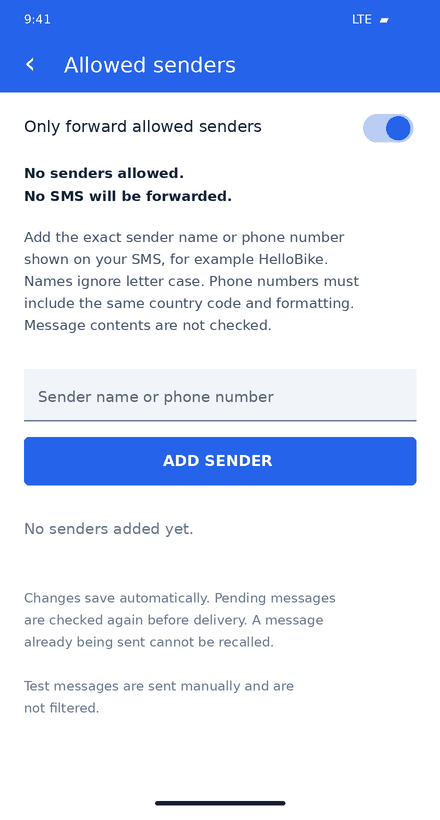
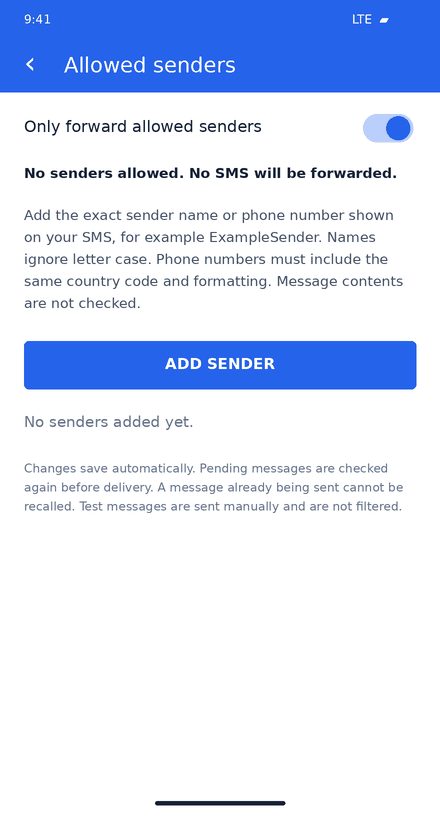
Update UI previews with generic senders and show the Messages confirmation flow

diff --git a/app/src/test/java/com/tigerworkshop/sms2telegram/ui/SenderSettingsActivityTest.kt b/app/src/test/java/com/tigerworkshop/sms2telegram/ui/SenderSettingsActivityTest.kt
@@ -100,7 +100,7 @@ class SenderSettingsActivityTest {
             .getButton(android.content.DialogInterface.BUTTON_POSITIVE).performClick()
         org.robolectric.Shadows.shadowOf(android.os.Looper.getMainLooper()).idle()
         val intent = requireNotNull(org.robolectric.Shadows.shadowOf(activity).nextStartedActivity)
-        assertTrue(intent.selector.categories.contains(android.content.Intent.CATEGORY_APP_MESSAGING))
+        assertTrue(requireNotNull(intent.selector).hasCategory(android.content.Intent.CATEGORY_APP_MESSAGING))
         controller.pause().resume()
         assertEquals(android.view.View.VISIBLE, activity.findViewById<android.view.View>(R.id.input_layout_sender).visibility)
         assertEquals(activity.getString(R.string.sender_save), activity.findViewById<TextView>(R.id.button_add_sender).text.toString())
